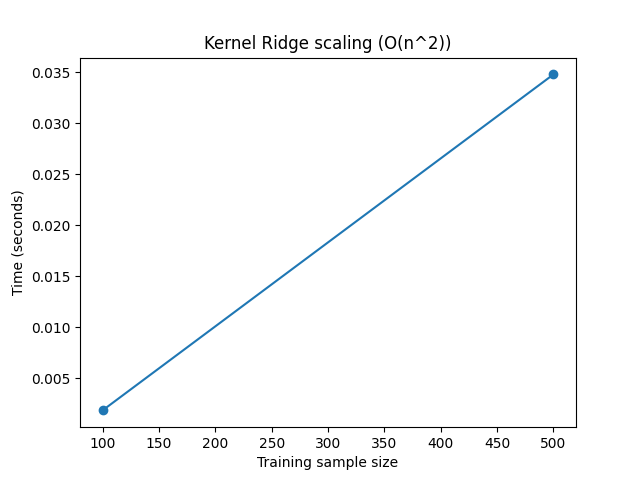
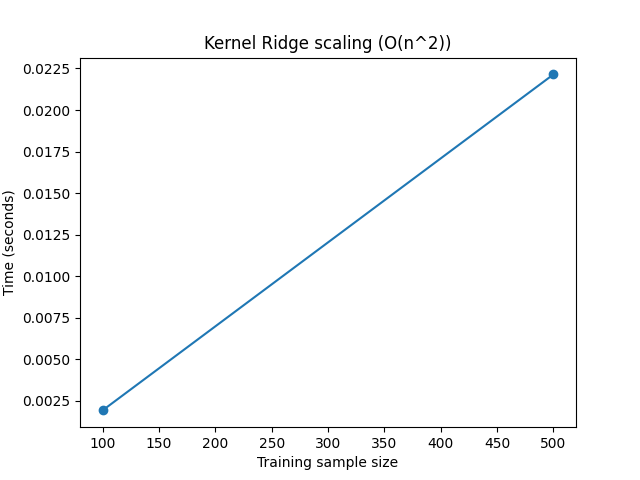
Added part 9 : The SHAP analysis to the code.

Changed region(s): [[0.0, 0.2188, 0.125, 0.625], [0.0312, 0.6562, 0.125, 0.8438], [0.0312, 0.125, 0.125, 0.1875]]

diff --git a/Phase_2.py b/Phase_2.py
@@ -596,3 +596,35 @@ plt.savefig(os.path.join(FIGURES_DIR, 'kernel_scaling_comparison.png'))
 plt.close()
 
 # PART 8 Done (compute & scaling)
+
+# -------------------- 9. SHAP Analysis (Preliminary) --------------------
+# We'll use a pre‑match classification model for SHAP (18 features).
+# Retrain a simple XGBoost on pre‑match data (no tuning, just for demonstration).
+shap_model = XGBClassifier(random_state=42, n_estimators=100, learning_rate=0.1)
+shap_model.fit(X_pre_train, y_pre_train_cls)
+
+# SHAP on first 100 test samples (to keep runtime manageable)
+explainer = shap.TreeExplainer(shap_model)
+shap_values = explainer.shap_values(X_pre_test[:100])
+
+# Global summary plot (beeswarm)
+shap.summary_plot(shap_values, X_pre_test[:100], feature_names=pre_feat_cols, show=False)
+plt.savefig(os.path.join(FIGURES_DIR, 'shap_summary.png'))
+plt.close()
+
+# ----- Local waterfall plot for the first test sample (predicted class) -----
+# Get predicted class for the first sample
+pred_class = np.argmax(shap_model.predict_proba(X_pre_test[:1])[0])
+# Create a shap.Explanation object for that class
+explanation = shap.Explanation(
+    values=shap_values[pred_class][0],
+    base_values=explainer.expected_value[pred_class],
+    data=X_pre_test[0],
+    feature_names=pre_feat_cols
+)
+shap.plots.waterfall(explanation, show=False)
+plt.savefig(os.path.join(FIGURES_DIR, 'shap_waterfall.png'))
+plt.close()
+
+print("SHAP preliminary analysis complete. Plots saved.")
+# PART 9 Done
